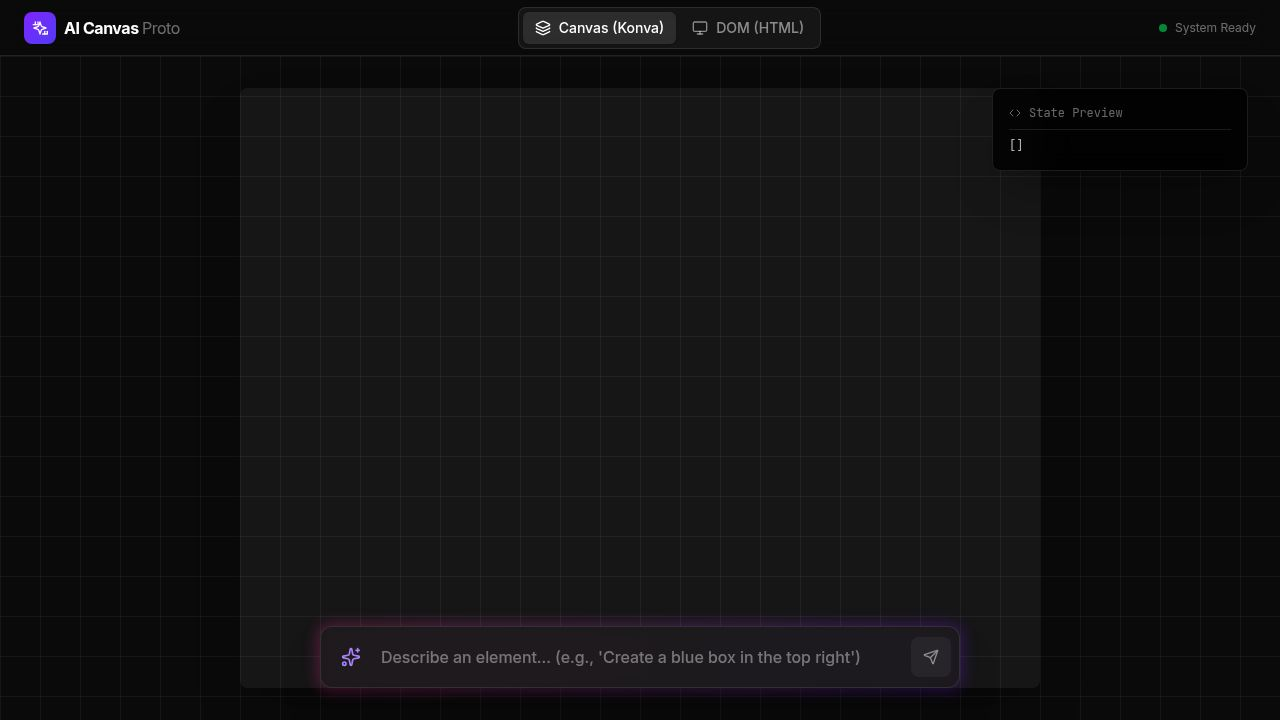
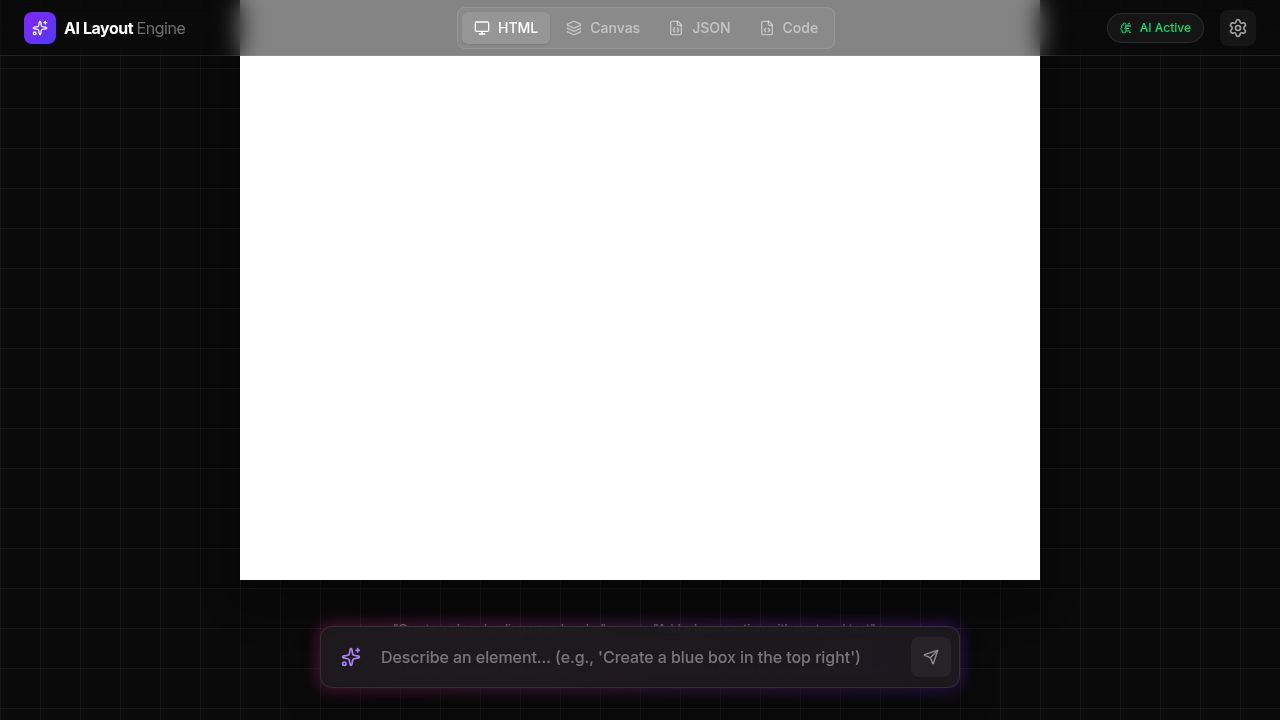
Add a way to test API keys and retry AI model generation
Implement a test connection feature for API keys and enhance AI generation to automatically retry with different models upon failure.

Replit-Commit-Author: Agent
Replit-Commit-Session-Id: 7841fd55-6e52-4887-884b-7643d944b7ea
Replit-Commit-Checkpoint-Type: full_checkpoint
Replit-Commit-Event-Id: d8e0692f-6f96-4d6c-9c05-19540b804997
Replit-Commit-Screenshot-Url: https://storage.googleapis.com/screenshot-production-us-central1/701d6421-0115-4265-ba4c-84665ecf38ad/7841fd55-6e52-4887-884b-7643d944b7ea/OY7XVZp
Replit-Helium-Checkpoint-Created: true

diff --git a/client/src/components/modals/ApiKeyModal.tsx b/client/src/components/modals/ApiKeyModal.tsx
@@ -1,5 +1,5 @@
 import React, { useState } from 'react';
-import { Settings, Key } from 'lucide-react';
+import { Settings, Key, CheckCircle2, XCircle, Loader2 } from 'lucide-react';
 import {
   Dialog,
   DialogContent,
@@ -12,6 +12,8 @@ import {
 import { Button } from "@/components/ui/button";
 import { Input } from "@/components/ui/input";
 import { Label } from "@/components/ui/label";
+import { testConnection } from '../../lib/gemini';
+import { toast } from 'sonner';
 
 interface ApiKeyModalProps {
   apiKey: string;
@@ -21,10 +23,28 @@ interface ApiKeyModalProps {
 export const ApiKeyModal: React.FC<ApiKeyModalProps> = ({ apiKey, onSave }) => {
   const [value, setValue] = useState(apiKey);
   const [open, setOpen] = useState(false);
+  const [status, setStatus] = useState<'idle' | 'testing' | 'success' | 'error'>('idle');
 
   const handleSave = () => {
     onSave(value);
     setOpen(false);
+  };
+
+  const handleTest = async () => {
+    if (!value) return;
+    setStatus('testing');
+    try {
+      const success = await testConnection(value);
+      if (success) {
+        setStatus('success');
+        toast.success("Connection successful!");
+      } else {
+        setStatus('error');
+        toast.error("Connection failed. Check key.");
+      }
+    } catch (e) {
+      setStatus('error');
+    }
   };
 
   return (
@@ -53,9 +73,29 @@ export const ApiKeyModal: React.FC<ApiKeyModalProps> = ({ apiKey, onSave }) => {
                 type="password"
                 placeholder="AIzaSy..."
                 value={value}
-                onChange={(e) => setValue(e.target.value)}
+                onChange={(e) => {
+                    setValue(e.target.value);
+                    setStatus('idle');
+                }}
                 className="bg-black/20 border-white/10 text-white placeholder:text-white/20 focus:border-violet-500/50 flex-1"
                 />
+                <Button 
+                    variant="outline" 
+                    size="icon" 
+                    onClick={handleTest}
+                    disabled={!value || status === 'testing'}
+                    className={`shrink-0 border-white/10 ${
+                        status === 'success' ? 'text-green-400 border-green-400/50 bg-green-400/10' :
+                        status === 'error' ? 'text-red-400 border-red-400/50 bg-red-400/10' :
+                        'text-white/60 hover:text-white hover:bg-white/5'
+                    }`}
+                >
+                    {status === 'testing' ? <Loader2 className="w-4 h-4 animate-spin" /> :
+                     status === 'success' ? <CheckCircle2 className="w-4 h-4" /> :
+                     status === 'error' ? <XCircle className="w-4 h-4" /> :
+                     <div className="text-xs font-mono">Test</div>
+                    }
+                </Button>
             </div>
             <p className="text-xs text-white/40">
               {import.meta.env.VITE_GEMINI_API_KEY ? (

diff --git a/client/src/lib/gemini.ts b/client/src/lib/gemini.ts
@@ -103,32 +103,62 @@ INSTRUCTIONS:
 `;
 
 export async function generateLayout(apiKey: string, prompt: string, currentElements: CanvasElement[]): Promise<CanvasElement[]> {
+  const genAI = new GoogleGenerativeAI(apiKey);
+  
+  // List of models to try in order
+  const modelsToTry = ["gemini-1.5-flash", "gemini-pro", "gemini-1.0-pro-latest"];
+  
+  let lastError = null;
+
+  for (const modelName of modelsToTry) {
+    try {
+      console.log(`Attempting to generate with model: ${modelName}`);
+      const model = genAI.getGenerativeModel({ model: modelName });
+
+      const context = `
+      CURRENT JSON STATE:
+      ${JSON.stringify(currentElements, null, 2)}
+      
+      USER COMMAND:
+      "${prompt}"
+      
+      Return the fully updated JSON array:
+      `;
+
+      const result = await model.generateContent([
+        SYSTEM_PROMPT,
+        context
+      ]);
+
+      const response = result.response;
+      const text = response.text();
+      const cleanJson = text.replace(/```json/g, '').replace(/```/g, '').trim();
+      
+      return JSON.parse(cleanJson);
+
+    } catch (error: any) {
+      console.warn(`Failed with model ${modelName}:`, error);
+      lastError = error;
+      
+      // If it's a 404, we continue to the next model. 
+      // If it's a 403 (Permission/Key), we might as well stop, but trying others doesn't hurt.
+      continue;
+    }
+  }
+
+  // If we get here, all models failed
+  console.error("All AI models failed.");
+  throw lastError;
+}
+
+export async function testConnection(apiKey: string): Promise<boolean> {
   try {
     const genAI = new GoogleGenerativeAI(apiKey);
-    const model = genAI.getGenerativeModel({ model: "gemini-1.5-flash" });
-
-    const context = `
-    CURRENT JSON STATE:
-    ${JSON.stringify(currentElements, null, 2)}
-    
-    USER COMMAND:
-    "${prompt}"
-    
-    Return the fully updated JSON array:
-    `;
-
-    const result = await model.generateContent([
-      SYSTEM_PROMPT,
-      context
-    ]);
-
-    const response = result.response;
-    const text = response.text();
-    const cleanJson = text.replace(/```json/g, '').replace(/```/g, '').trim();
-    
-    return JSON.parse(cleanJson);
-  } catch (error) {
-    console.error("AI Generation failed:", error);
-    throw error;
+    const model = genAI.getGenerativeModel({ model: "gemini-pro" });
+    await model.generateContent("Test");
+    return true;
+  } catch (e) {
+    console.error("Test connection failed:", e);
+    return false;
   }
 }

diff --git a/client/src/pages/CanvasTool.tsx b/client/src/pages/CanvasTool.tsx
@@ -58,9 +58,16 @@ export default function CanvasTool() {
       const newElements = await generateLayout(apiKey, prompt, elements);
       setElements(newElements);
       toast.success("AI updated the layout");
-    } catch (error) {
-      console.error(error);
-      toast.error("AI Generation failed.");
+    } catch (error: any) {
+      console.error("Full AI Error:", error);
+      const msg = error?.message || "AI Generation failed";
+      if (msg.includes("404")) {
+        toast.error("Model not found (404). Trying a different model...");
+      } else if (msg.includes("403") || msg.includes("key")) {
+        toast.error("Invalid API Key. Please check settings.");
+      } else {
+        toast.error(`AI Error: ${msg.slice(0, 50)}...`);
+      }
     } finally {
       setIsProcessing(false);
     }
